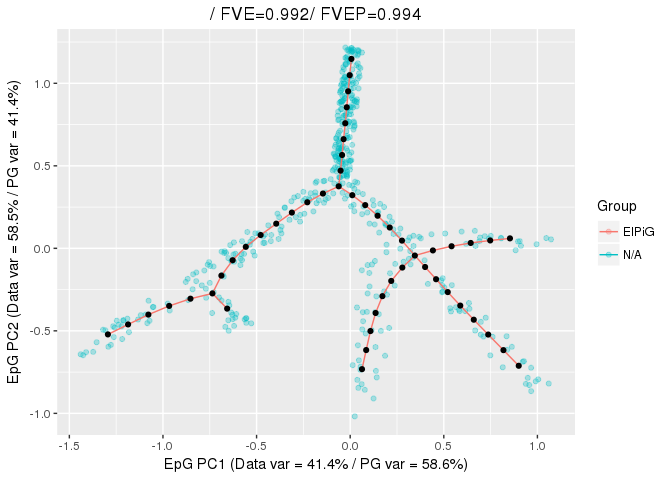
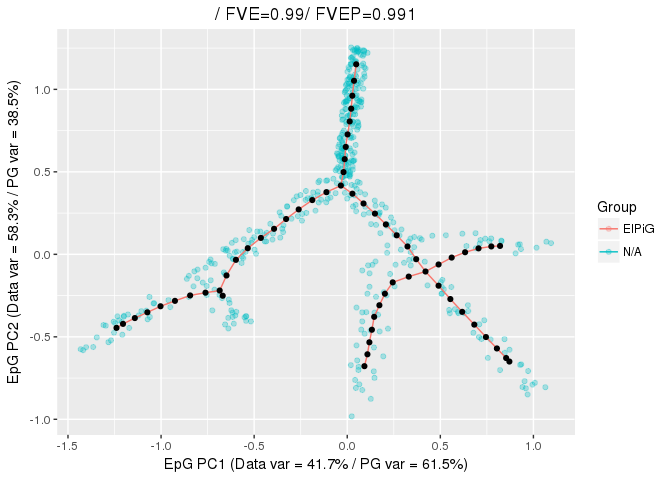
updated pseudotime guide

diff --git a/guides/pseudo.md b/guides/pseudo.md
@@ -3,7 +3,7 @@
     interest](#getting-the-substructure-of-interest)
 -   [Getting the supporting
     structures](#getting-the-supporting-structures)
--   [Computnig pseudotime](#computnig-pseudotime)
+-   [Computing pseudotime](#computing-pseudotime)
 -   [Exploring features over
     pseudotime](#exploring-features-over-pseudotime)
 
@@ -18,7 +18,7 @@ As a first step, we will construct a tree structure on the sample data
 
     library(ElPiGraph.R)
 
-    TreeEPG <- computeElasticPrincipalTree(X = tree_data, NumNodes = 50,
+    TreeEPG <- computeElasticPrincipalTree(X = tree_data, NumNodes = 60, Lambda = .03, Mu = .01,
                                            drawAccuracyComplexity = FALSE, drawEnergy = FALSE)
 
     ## [1] "Creating a chain in the 1st PC with 2 nodes"
@@ -27,70 +27,12 @@ As a first step, we will construct a tree structure on the sample data
     ## [1] "Using standard PCA"
     ## [1] "3 dimensions are being used"
     ## [1] "100% of the original variance has been retained"
-    ## [1] "Computing EPG with 50 nodes on 492 points and 3 dimensions"
+    ## [1] "Computing EPG with 60 nodes on 492 points and 3 dimensions"
     ## [1] "Using a single core"
-    ## Nodes = 2 3
-
-    ## Warning in PrimitiveElasticGraphEmbedment(X, input$NodePositions, input
-    ## $ElasticMatrix, : Maximum number of iterations (10) has been reached. diff
-    ## = 0.0556045436349542
-
-    ## 4
-
-    ## Warning in PrimitiveElasticGraphEmbedment(X, input$NodePositions, input
-    ## $ElasticMatrix, : Maximum number of iterations (10) has been reached. diff
-    ## = 0.0301832931960279
-
-    ## 5 6 7
-
-    ## Warning in PrimitiveElasticGraphEmbedment(X, input$NodePositions, input
-    ## $ElasticMatrix, : Maximum number of iterations (10) has been reached. diff
-    ## = 0.0108997004478186
-
-    ## 8
-
-    ## Warning in PrimitiveElasticGraphEmbedment(X, input$NodePositions, input
-    ## $ElasticMatrix, : Maximum number of iterations (10) has been reached. diff
-    ## = 0.0338837538875411
-
-    ## 9
-
-    ## Warning in PrimitiveElasticGraphEmbedment(X, input$NodePositions, input
-    ## $ElasticMatrix, : Maximum number of iterations (10) has been reached. diff
-    ## = 0.0186764499907295
-
-    ## Warning in PrimitiveElasticGraphEmbedment(X, input$NodePositions, input
-    ## $ElasticMatrix, : Maximum number of iterations (10) has been reached. diff
-    ## = 0.054863847452363
-
-    ## 10
-
-    ## Warning in PrimitiveElasticGraphEmbedment(X, input$NodePositions, input
-    ## $ElasticMatrix, : Maximum number of iterations (10) has been reached. diff
-    ## = 0.0244949370624996
-
-    ## Warning in PrimitiveElasticGraphEmbedment(X, input$NodePositions, input
-    ## $ElasticMatrix, : Maximum number of iterations (10) has been reached. diff
-    ## = 0.0117614602046908
-
-    ## Warning in PrimitiveElasticGraphEmbedment(X, input$NodePositions, input
-    ## $ElasticMatrix, : Maximum number of iterations (10) has been reached. diff
-    ## = 0.0358113369806447
-
-    ## Warning in PrimitiveElasticGraphEmbedment(X, input$NodePositions, input
-    ## $ElasticMatrix, : Maximum number of iterations (10) has been reached. diff
-    ## = 0.0139648044782385
-
-    ## 11 12 13
-
-    ## Warning in PrimitiveElasticGraphEmbedment(X, input$NodePositions, input
-    ## $ElasticMatrix, : Maximum number of iterations (10) has been reached. diff
-    ## = 0.0183632027691593
-
-    ## 14 15 16 17 18 19 20 21 22 23 24 25 26 27 28 29 30 31 32 33 34 35 36 37 38 39 40 41 42 43 44 45 46 47 48 49 
+    ## Nodes = 2 3 4 5 6 7 8 9 10 11 12 13 14 15 16 17 18 19 20 21 22 23 24 25 26 27 28 29 30 31 32 33 34 35 36 37 38 39 40 41 42 43 44 45 46 47 48 49 50 51 52 53 54 55 56 57 58 59 
     ## BARCODE  ENERGY  NNODES  NEDGES  NRIBS   NSTARS  NRAYS   NRAYS2  MSE MSEP    FVE FVEP    UE  UR  URN URN2    URSD
-    ## 1|2||50  0.01568 50  49  41  2   0   0   0.004137    0.003432    0.9923  0.9936  0.01114 0.0004032   0.02016 1.008   0
-    ## 14.841 sec elapsed
+    ## 1|2||60  0.01848 60  59  51  2   0   0   0.00548 0.005053    0.9898  0.9906  0.01249 0.0005134   0.03081 1.848   0
+    ## 29.923 sec elapsed
     ## [[1]]
 
 ![](pseudo_files/figure-markdown_strict/unnamed-chunk-1-1.png)
@@ -99,11 +41,37 @@ and visualize the node labels:
 
     PlotPG(X = tree_data, TargetPG = TreeEPG[[1]],
            NodeLabels = 1:nrow(TreeEPG[[1]]$NodePositions),
-           LabMult = 3, PointSize = NA, p.alpha = .1)
+           LabMult = 2.5, PointSize = NA, p.alpha = .1)
 
     ## [[1]]
 
 ![](pseudo_files/figure-markdown_strict/unnamed-chunk-2-1.png)
+
+To improve visualization, it is also possible to plot only leaves labels
+
+    library(igraph)
+
+    ## 
+    ## Attaching package: 'igraph'
+
+    ## The following objects are masked from 'package:stats':
+    ## 
+    ##     decompose, spectrum
+
+    ## The following object is masked from 'package:base':
+    ## 
+    ##     union
+
+    NodeLabs <- 1:nrow(TreeEPG[[1]]$NodePositions)
+    NodeLabs[degree(ConstructGraph(TreeEPG[[1]])) != 1] <- NA
+
+    PlotPG(X = tree_data, TargetPG = TreeEPG[[1]],
+           NodeLabels = NodeLabs,
+           LabMult = 5, PointSize = NA, p.alpha = .1)
+
+    ## [[1]]
+
+![](pseudo_files/figure-markdown_strict/unnamed-chunk-3-1.png)
 
 Getting the substructure of interest
 ====================================
@@ -117,14 +85,14 @@ We will begin by computing all of the paths between leaves.
     Tree_Graph <- ConstructGraph(TreeEPG[[1]])
     Tree_e2e <- GetSubGraph(Net = Tree_Graph, Structure = 'end2end')
 
-Since the paths derived are unique, the node 2 could be either at the
+Since the paths derived are unique, the node 1 could be either at the
 beginning or at the end of the path considered. therefore, we select all
-the path starting or ending in 2
+the path starting or ending in 1
 
     Root <- 2
     SelPaths <- Tree_e2e[sapply(Tree_e2e, function(x){any(x[c(1, length(x))] == Root)})]
 
-and reverse the paths ending in 2
+and reverse the paths ending in 1
 
     SelPaths <- lapply(SelPaths, function(x){
       if(x[1] == Root){
@@ -140,24 +108,28 @@ are compatible with our expectations
     SelPaths
 
     ## $Path_1
-    ## + 23/50 vertices, named, from e20d6c1:
-    ##  [1] 2  11 16 46 25 28 38 6  1  5  32 17 26 36 13 9  24 19 43 48 40 8  4 
+    ## + 26/60 vertices, named, from 045cf7f:
+    ##  [1] 2  8  40 60 16 5  30 52 21 1  57 34 9  47 28 12 19 3  15 18 27 31 35
+    ## [24] 36 45 51
     ## 
     ## $Path_2
-    ## + 22/50 vertices, named, from e20d6c1:
-    ##  [1] 2  11 16 46 25 28 38 6  1  10 18 30 22 12 3  42 45 41 33 35 7  15
+    ## + 27/60 vertices, named, from 045cf7f:
+    ##  [1] 2  8  40 60 16 5  30 52 21 1  57 34 9  47 28 12 19 3  11 17 24 25 42
+    ## [24] 43 48 49 54
     ## 
     ## $Path_3
-    ## + 19/50 vertices, named, from e20d6c1:
-    ##  [1] 2  11 16 46 25 28 38 6  1  5  32 17 26 36 13 9  24 19 20
+    ## + 28/60 vertices, named, from 045cf7f:
+    ##  [1] 2  8  40 60 16 5  30 52 21 1  7  20 44 55 29 37 6  26 13 4  14 22 23
+    ## [24] 33 38 41 53 56
     ## 
     ## $Path_4
-    ## + 20/50 vertices, named, from e20d6c1:
-    ##  [1] 2  11 16 46 25 28 38 6  1  10 18 30 22 12 3  31 49 37 21 23
+    ## + 24/60 vertices, named, from 045cf7f:
+    ##  [1] 2  8  40 60 16 5  30 52 21 1  57 34 9  47 28 12 19 3  10 32 39 46 50
+    ## [24] 58
     ## 
     ## $Path_5
-    ## + 23/50 vertices, named, from e20d6c1:
-    ##  [1] 2  11 16 46 25 28 38 6  1  10 18 30 22 12 3  27 34 39 50 47 44 14 29
+    ## + 21/60 vertices, named, from 045cf7f:
+    ##  [1] 2  8  40 60 16 5  30 52 21 1  7  20 44 55 29 37 6  26 13 4  59
 
 Getting the supporting structures
 =================================
@@ -177,7 +149,7 @@ relative to the projection of points on the edge of the graph
                                            Edges = TreeEPG[[1]]$Edges$Edges,
                                            Partition = PartStruct$Partition)
 
-Computnig pseudotime
+Computing pseudotime
 ====================
 
 We are now able to obtain the pseudotime, via the `getPseudotime`
@@ -203,7 +175,7 @@ function
 
     ## [[1]]
 
-![](pseudo_files/figure-markdown_strict/unnamed-chunk-11-1.png)
+![](pseudo_files/figure-markdown_strict/unnamed-chunk-12-1.png)
 
 Exploring features over pseudotime
 ==================================
@@ -224,6 +196,6 @@ It is possible to visualize this information using the
                       Main = "A simple tree example",
                       Features = 2)
 
-    ## `geom_smooth()` using method = 'loess' and formula 'y ~ x'
+    ## `geom_smooth()` using method = 'loess'
 
-![](pseudo_files/figure-markdown_strict/unnamed-chunk-12-1.png)
+![](pseudo_files/figure-markdown_strict/unnamed-chunk-13-1.png)
